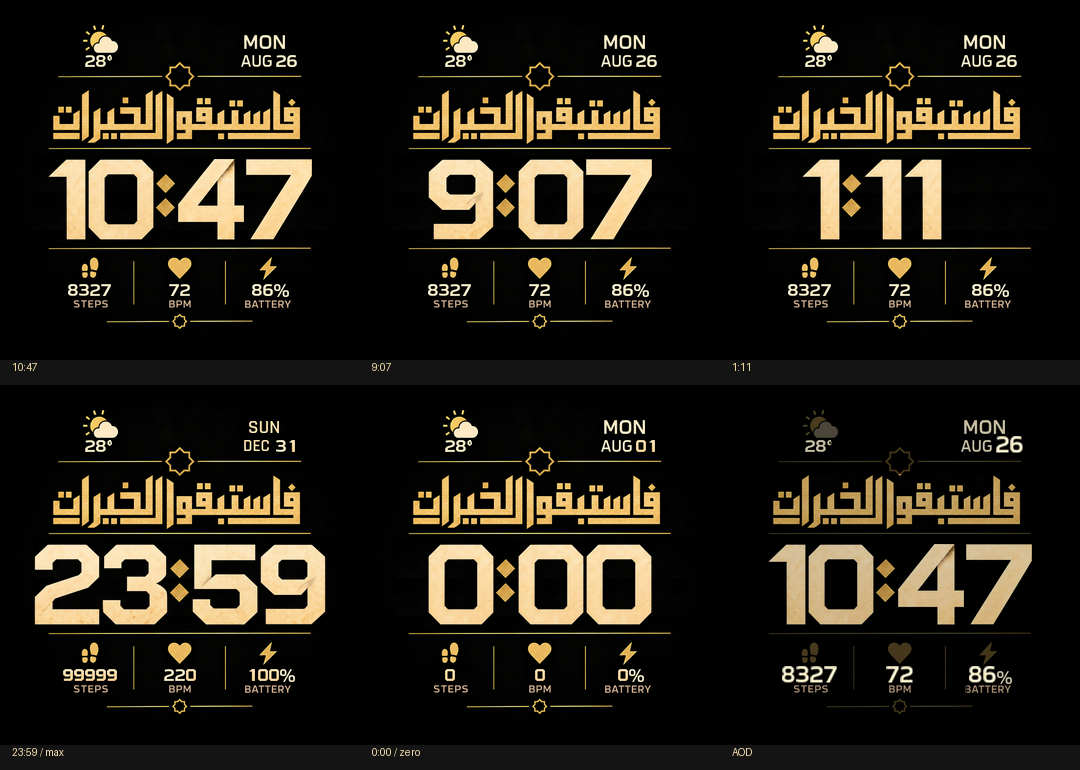
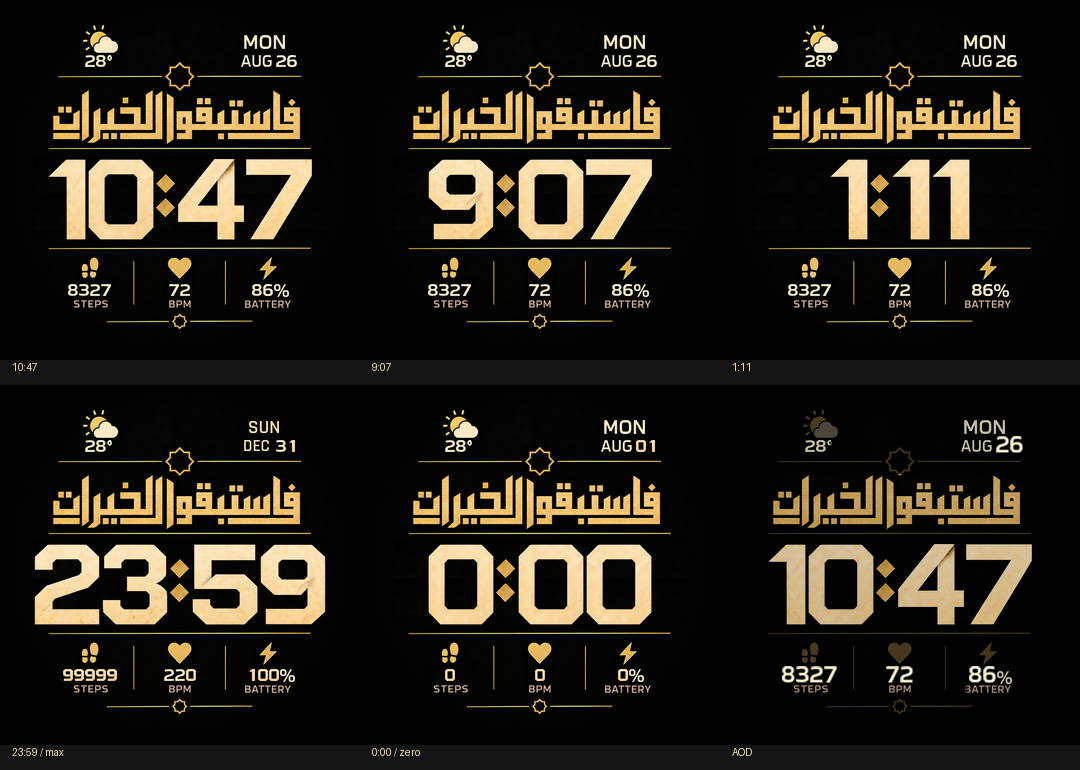
Center complete proportional time group in previews

Changed region(s): [[0.7333, 0.187, 0.9167, 0.3117]]

diff --git a/tools/build.py b/tools/build.py
@@ -21,7 +21,7 @@ CREAM = (249, 225, 175)
 ARABIC = 'فاستبقوا الخيرات'
 SIZE = 360
 TIME = {'center_x': 180, 'y': 159, 'digit_width': 68, 'height': 81,
-        'colon_width': 22, 'leading_zero': False, 'alignment': 'proportional-follow', 'digit_one_width':40, 'max_center_offset':28}
+        'colon_width': 22, 'leading_zero': False, 'alignment': 'Center', 'digit_one_width':40, 'field_width':294}
 
 
 def font(name, size, weight=None):
@@ -126,6 +126,45 @@ def number(x, y, index, count=10, align='Left', zero=0, suffix=None):
     return {'Image': node, 'Alignment': align, 'Spacing': 0, 'ZeroPadding': zero}
 
 
+def compile_time_field(field, digits_index, colon_index):
+    left=field['center_x']-field['field_width']//2
+    return {'Digital': {'HoursMinutesSeconds': [
+        {'Type': 0, 'Independent': True,
+         'Text': number(left,field['y'],digits_index,align=field['alignment'],suffix=colon_index)},
+        {'Type': 1, 'Independent': False,
+         'Text': number(0,0,digits_index,zero=1)}]}}
+
+
+def time_group_layout(block, images, hour, minute):
+    """Model the intended native linked group, not the editor's hour-only preview.
+
+    The editor author warns that Center+Follow preview is inaccurate. This is
+    a group-layout model; physical firmware confirmation is recorded separately.
+    """
+    fields=block['Digital']['HoursMinutesSeconds']
+    assert fields[0]['Independent'] and not fields[1]['Independent']
+    parts=[]
+    for field,value in zip(fields,(hour,minute)):
+        cfg=field['Text']; node=cfg['Image']
+        base=node['ImageRange']['ImageRange']['ImageIndex']
+        text=str(value).zfill(2) if cfg.get('ZeroPadding') else str(value)
+        parts.extend(images[base+int(ch)] for ch in text)
+        if 'SuffixImage' in node:
+            parts.append(images[node['SuffixImage']['ImageRange']['ImageIndex']])
+    cfg=fields[0]['Text']; node=cfg['Image']
+    width=sum(im.width for im in parts)
+    hbase=node['ImageRange']['ImageRange']['ImageIndex']
+    mbase=fields[1]['Text']['Image']['ImageRange']['ImageRange']['ImageIndex']
+    separator=images[node['SuffixImage']['ImageRange']['ImageIndex']].width
+    reserved=2*images[hbase].width+separator+2*images[mbase].width
+    left=node['X']
+    if cfg['Alignment']=='Center':
+        left+=(reserved-width)//2
+    elif cfg['Alignment']=='Right':
+        left+=reserved-width
+    return left,node['Y'],parts
+
+
 def generate():
     images = []
     def add(im):
@@ -158,14 +197,8 @@ def generate():
              'cloud', 'rain', 'sun', 'cloud', 'cloud']
     for kind in kinds:
         add(source_assets.approved_crop((287,85,410,184),(35,28)) if kind=='partly' else icon(kind,28))
-    # The one logical time field compiles to hour + separator + following minute.
-    # Keep the existing hour anchor; minutes follow proportional sprite advances.
-    # The user accepts up to 28 px left offset to preserve shape and equal padding.
-    hour_x = TIME['center_x'] - (TIME['colon_width'] + 2*TIME['digit_width'])//2 - (2*TIME['digit_width']+1)//2
-    time = {'Digital': {'HoursMinutesSeconds': [
-        {'Type': 0, 'Independent': True,
-         'Text': number(hour_x, TIME['y'], big, align='Center', suffix=colon_id)},
-        {'Type': 1, 'Independent': False, 'Text': number(0, 0, big, zero=1)}]}}
+    # One logical time field compiled into the linked components required by UIHH.
+    time = compile_time_field(TIME, big, colon_id)
     date = {'YearMonthDay': [
         {'Type': 1, 'Independent': True, 'Text': number(241,55,months,12)},
         {'Type': 2, 'Independent': True, 'Text': number(276,55,small,zero=1)}],
@@ -219,7 +252,7 @@ def generate():
     (BUILD/'watchface.json').write_text(json.dumps(params, indent=2), encoding='utf-8')
     (ROOT/'design.json').write_text(json.dumps({'name': 'fastabiqulkhairat', 'device': 'Amazfit T-Rex Pro',
         'screen': [360,360], 'arabic': ARABIC, 'time_field': TIME,
-        'compiler': 'center-aligned hour anchor, proportional digits, attached separator and following minutes; up to 28 px group center offset accepted by user'}, indent=2, ensure_ascii=False), encoding='utf-8')
+        'compiler': 'one Center time field compiled to native linked hour, suffix and following minute components'}, indent=2, ensure_ascii=False), encoding='utf-8')
     return params, images
 
 
@@ -231,10 +264,9 @@ def text_start(cfg, width, maxdigits, digit_width):
 
 
 def render(params, images, hour=10, minute=47, steps=8327, hr=72, battery=86,
-           day=26, month=8, weekday=0, temp=28, condition=1, idle=False, require_center=False):
+           day=26, month=8, weekday=0, temp=28, condition=1, idle=False):
     mode = params['IdleScreen'] if idle else params
     im = images[mode['BackgroundImageIndex'] if idle else mode['Background']['ImageIndex']].copy()
-    fields = mode['Time']['Digital']['HoursMinutesSeconds']
     def digits(cfg, value, maxdigits, forced_x=None, forced_y=None):
         node = cfg['Image']
         base = node['ImageRange']['ImageRange']['ImageIndex']
@@ -252,10 +284,12 @@ def render(params, images, hour=10, minute=47, steps=8327, hr=72, battery=86,
             im.alpha_composite(p, (x,y))
             x += p.width
         return start, x
-    start, end = digits(fields[0]['Text'], hour, 2)
-    _, end = digits(fields[1]['Text'], minute, 2, end, fields[0]['Text']['Image']['Y'])
-    if require_center:
-        assert abs((start+end)/2-180) <= .5, (hour, minute, start, end)
+    start,y,parts=time_group_layout(mode['Time'],images,hour,minute)
+    end=start
+    for part in parts:
+        im.alpha_composite(part,(end,y))
+        end+=part.width
+    assert abs((start+end)/2-180)<=.5
     system = mode if idle else mode['System']
     date = system['Date']
     for cfg, offset in [(date['Week']['Text'], weekday), (date['YearMonthDay'][0]['Text'], month-1)]:
@@ -344,22 +378,22 @@ def main():
     assert hms[0]['Independent'] and not hms[1]['Independent']
     assert hms[0]['Text']['Alignment']=='Center'
     assert not hms[0]['Text']['ZeroPadding'] and hms[1]['Text']['ZeroPadding']==1
-    hbase=hms[0]['Text']['Image']['ImageRange']['ImageRange']['ImageIndex']
-    mbase=hms[1]['Text']['Image']['ImageRange']['ImageRange']['ImageIndex']
-    colon=decoded[hms[0]['Text']['Image']['SuffixImage']['ImageRange']['ImageIndex']]
     max_center_offset=0
-    for hour in range(24):
-        for minute in range(60):
-            width=sum(decoded[hbase+int(c)].width for c in str(hour))
-            tail=colon.width+sum(decoded[mbase+int(c)].width for c in f'{minute:02d}')
-            start=text_start(hms[0]['Text'],width,2,decoded[hbase].width)
-            offset=180-(start+(width+tail)/2)
-            assert 0<=offset<=28
-            max_center_offset=max(max_center_offset,offset)
-            assert 0<=start and start+width+tail<=360
+    for mode in (roundtrip['Time'],roundtrip['IdleScreen']['Time']):
+        for hour in range(24):
+            for minute in range(60):
+                start,_,parts=time_group_layout(mode,decoded,hour,minute)
+                width=sum(im.width for im in parts)
+                offset=abs(180-(start+width/2))
+                assert offset<=.5
+                assert 0<=start and start+width<=360
+                max_center_offset=max(max_center_offset,offset)
+    for (hour,minute),expected_left in {(5,11):95,(11,11):89,(21,10):61,(23,59):33}.items():
+        left,_,_=time_group_layout(roundtrip['Time'],decoded,hour,minute)
+        assert left==expected_left,(hour,minute,left)
     report = {'sha256':hashlib.sha256(raw).hexdigest(),'bytes':len(raw),'images':len(blobs),
               'container':checks,'parameter_roundtrip':True,'max_pixel_delta':maxdelta,
-              'proportional_time_cases':1440,'max_center_offset_px':max_center_offset,'digit_cell':[68,81],'digit_one_cell':[40,81],'digit_one_body_width':38,'digit_padding_px':1,'aod_metric_cell':[14,18],'aod_metric_gain':1.0,'calligraphy_pixel_delta':0,
+              'group_center_preview_cases':2880,'firmware_centering_verified':False,'max_center_offset_px':max_center_offset,'digit_cell':[68,81],'digit_one_cell':[40,81],'digit_one_body_width':38,'digit_padding_px':1,'aod_metric_cell':[14,18],'aod_metric_gain':1.0,'calligraphy_pixel_delta':0,
               'source_sha256':{str(path.relative_to(ROOT)):hashlib.sha256(path.read_bytes()).hexdigest() for path in (source_assets.SRC,source_assets.SHEET)},'arabic_text':ARABIC,'arabic_source':'unchanged crop from user-approved artwork',
               'device_test':'Pending physical T-Rex Pro installation'}
     (OUT/'validation.json').write_text(json.dumps(report,indent=2,ensure_ascii=False),encoding='utf-8')

diff --git a/README.md b/README.md
@@ -16,13 +16,15 @@ Watchface Amazfit T-Rex Pro 360 x 360, memakai kaligrafi dan aset visual yang di
 
 Gambar sumber disimpan tanpa perubahan. Build memeriksa hash sumber dan kesamaan piksel area kaligrafi pada latar 360 x 360. File font Noto Kufi Arabic dan Oxanium serta tekstur generasi lama masih tersimpan untuk riwayat, tetapi tidak dipakai untuk kaligrafi atau jam pada build ini.
 
-## Waktu proporsional
+## Satu field waktu, rata tengah
 
-Koreksi pengguna mengutamakan bentuk asli dan jarak proporsional. Angka 1 tetap ramping, dengan margin transparan 1 px per sisi seperti digit lain. Jam tanpa nol awal dan menit selalu dua digit.
+`design.json` mendefinisikan satu `time_field` dengan `alignment: Center` dan `center_x: 180`. `compile_time_field()` menerjemahkannya ke komponen terkait yang diwajibkan UIHH: jam, suffix titik dua, dan menit dengan `Independent: false`. Komponen menit tidak memiliki posisi terpisah yang dipatok.
 
-UIHH v2 memakai jam berperataan `Center`, titik dua sebagai `SuffixImage`, dan menit `Independent: false`. Menit mengikuti lebar aktual gambar digit. Bentuk 1 tidak diperlebar untuk mengisi sel digit lain.
+Renderer menyusun seluruh glyph jam, titik dua, dan menit terlebih dahulu. Lebar grup dihitung dari ukuran aktual aset, termasuk angka 1 yang bersel 40 px. Posisi kiri dihitung dari `(360 - lebar_grup) / 2`. Contoh: 5:11 dimulai pada x=95, 11:11 pada x=89, dan 21:10 pada x=61. Semuanya berpusat pada x=180. Build memeriksa 2.880 skenario normal dan AOD.
 
-Batas format: perataan jam memakai jangkar awal yang tetap, sehingga grup waktu bergeser 14 px ke kiri jika menit memuat satu angka 1, atau 28 px jika menitnya 11. Pengguna secara eksplisit memilih bentuk dan jarak proporsional daripada rata tengah yang ketat. Build menguji batas ini pada 1.440 kombinasi waktu, bukan mengklaim semuanya tepat berpusat. Lihat `out/spacing-aod-review.png` untuk contoh 5:11, 11:11, dan 21:10.
+**Koreksi atas laporan sebelumnya:** pergeseran 14/28 px berasal dari model preview yang hanya memusatkan jam. Itu belum membuktikan batas firmware. [Pengembang editor SashaCX75](https://amazfitwatchfaces.com/forum/viewtopic.php?p=13168) memperingatkan bahwa preview Center/Right bersama Follow tidak akurat dan perlu diperiksa pada jam.
+
+Parameter native jam `Center` dan menit `Follow` sudah ada pada binary sebelumnya. Revisi pengelompokan ini membetulkan renderer dan sumber konfigurasi, tanpa mengklaim mengubah perilaku firmware. Binary tetap identik dengan revisi 81df71f. Model preview seluruh grup kini terpusat, tetapi perataan pada firmware belum diverifikasi. `out/validation.json` memisahkan verifikasi preview dari `firmware_centering_verified`.
 
 ## Build dan validasi
 

diff --git a/DESIGN_LOCK.md b/DESIGN_LOCK.md
@@ -9,7 +9,7 @@ Koreksi pengguna berikutnya: "beberapa angka proporsinya masih tidak seragam, ka
 Implementasi saat ini:
 - Pemotongan aset deterministik ada di `tools/source_assets.py`.
 - Digit besar memakai badan 66 x 81 px, kecuali angka 1 yang tetap 38 x 81 px. Margin transparan semua digit 1 px per sisi; sel angka 1 adalah 40 x 81 px dan digit lain 68 x 81 px.
-- Jam, titik dua, dan menit terhubung melalui suffix dan follower UIHH. User memilih jarak proporsional meskipun menit dengan angka 1 bisa membuat grup bergeser ke kiri hingga 28 px.
+- Instruksi terbaru: seluruh jam, titik dua, dan menit harus diperlakukan sebagai satu field dengan alignment Center. `time_group_layout()` menghitung lebar semua komponen sebelum menentukan posisi kiri. Jangan kembali ke perataan jam saja.
 - Kaligrafi berasal langsung dari latar desain final. Build memeriksa kesamaan piksel pada area kaligrafi setelah skala layar.
 - `tools/build.py` membangun versi desain final; binary lama sudah digantikan setelah validasi.
 - Digit kecil yang tersedia, MON, AUG, dan ikon partly cloudy diekstrak. Karakter tanggal/hari lain serta kondisi cuaca lain memakai aset pendukung karena sumber lengkap tidak tersedia.
@@ -17,3 +17,5 @@ Implementasi saat ini:
 Jangan kembali memakai Noto Kufi Arabic untuk kaligrafi atau Oxanium untuk jam. Jangan regenerasi desain. Selalu periksa `out/scenarios.png` dan `out/digits-normalized.png` setelah perubahan visual. Instalasi fisik di T-Rex Pro tetap perlu diverifikasi oleh pengguna.
 
 Revisi berikutnya: rapatkan jarak digit 1 dengan memangkas padding; jangan memperlebar bentuk glyph. Badan 38 px dalam sel 40 px, margin kiri dan kanan masing-masing 1 px. Hanya angka langkah, BPM, baterai, dan tanggal AOD memakai sel 14 x 18 px dan intensitas 100%; label/satuan tetap ukuran sebelumnya. Periksa `out/spacing-aod-review.png` dan `out/preview_aod_max.png`.
+
+Koreksi bukti: angka pergeseran 28 px terdahulu berasal dari renderer, bukan pengujian firmware. Pengembang editor menyatakan preview Follow+Center tidak akurat (https://amazfitwatchfaces.com/forum/viewtopic.php?p=13168). Parameter native Center+Follow tidak berubah; hasil pada perangkat masih perlu dikonfirmasi. Jangan menyebut preview sebagai bukti perilaku firmware.
